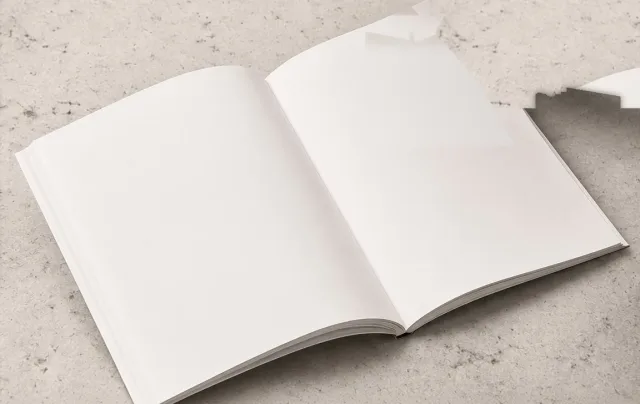
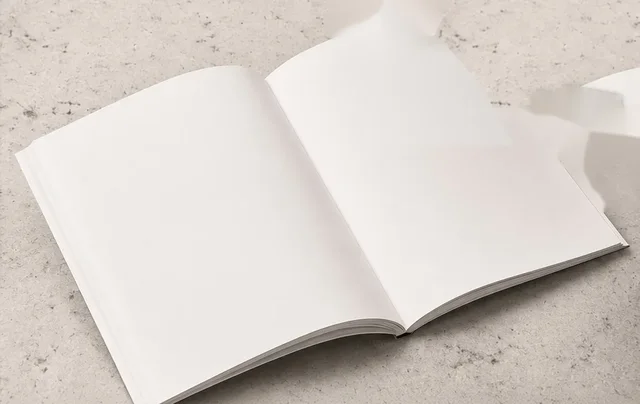
Fix mobile hand: centre it on the O and clean up the hand-free photo
* Upload HeroBook.css

* Upload hero-book-nohand images

Changed region(s): [[0.8125, 0.2079, 1.0, 0.5347], [0.5625, 0.0, 0.6562, 0.0594], [0.5312, 0.0594, 0.5625, 0.0891]]

diff --git a/src/components/HeroBook.css b/src/components/HeroBook.css
@@ -43,9 +43,10 @@
     /* Mobile only: the hand sits over the O in THEORY. Desktop keeps it at
        the book's corner. The mobile photo is the hand-free version (see
        HeroBook.jsx <picture>), so no ghost hand shows at the corner.
-       Smaller (24%) so the whole hand fits inside the viewport. */
-    left: 77%;
-    width: 24%;
-    top: -15%;
+       Smaller (19%) and centred on the O so the whole hand fits inside the
+       viewport and the wrist does not run off the right edge. */
+    left: 79%;
+    width: 19%;
+    top: -23%;
   }
 }
